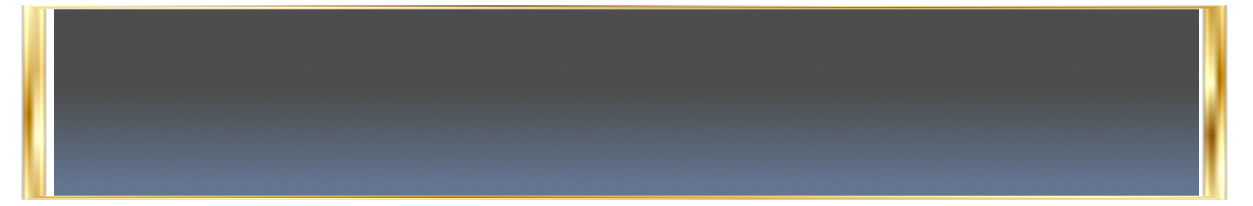
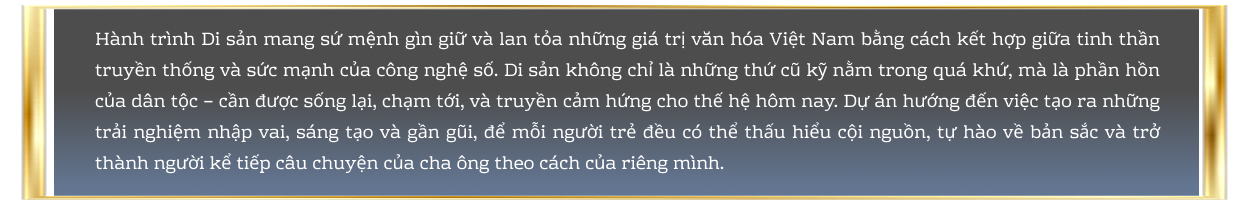
homepage update

diff --git a/src/pages/HomePage.js b/src/pages/HomePage.js
@@ -352,8 +352,18 @@ useEffect(() => {
    
 
 </section>
-<img className='info'
-src="/images/goldframe.png" alt="goldframe" />
+
+
+<div className="info-box">
+  <img className="info" src="/images/goldframe.png" alt="goldframe" />
+  <div className="info-text">
+   
+    <p>
+    Hành trình Di sản mang sứ mệnh gìn giữ và lan tỏa những giá trị văn hóa Việt Nam bằng cách kết hợp giữa tinh thần truyền thống và sức mạnh của công nghệ số. Di sản không chỉ là những thứ cũ kỹ nằm trong quá khứ, mà là phần hồn của dân tộc – cần được sống lại, chạm tới, và truyền cảm hứng cho thế hệ hôm nay. Dự án hướng đến việc tạo ra những trải nghiệm nhập vai, sáng tạo và gần gũi, để mỗi người trẻ đều có thể thấu hiểu cội nguồn, tự hào về bản sắc và trở thành người kể tiếp câu chuyện của cha ông theo cách của riêng mình.
+    </p>
+  </div>
+</div>
+
 
 <img className='last'
 src="/images/last-page.png" alt="lastpage" />

diff --git a/src/styles/HomePage.css b/src/styles/HomePage.css
@@ -1069,21 +1069,33 @@ body:has(.overlay) .background button {
 
 }
 
-.info {
+.info-box {
   position: relative;
-  margin-top: 300px; 
-  
-  height: auto;
-
+  margin-top: 400px; 
   width: 1440px;
-
-  text-align: justify;
-  justify-content: center;
-  font-size: large;
-  margin-left: 50px;
+  margin-left: auto;
+  margin-right: auto;
   margin-bottom: 100px;
- 
 }
+
+.info {
+  display: block;
+  width: 100%;
+  height: auto;
+}
+
+.info-text {
+  position: absolute;
+  top: 30%;  /* canh chỉnh vị trí chữ */
+  left: 10%;
+  right: 10%;
+  color: white;
+  font-size: large;
+  font-family: system-ui, -apple-system, BlinkMacSystemFont, 'Segoe UI', Roboto, Oxygen, Ubuntu, Cantarell, 'Open Sans', 'Helvetica Neue', sans-serif;
+  text-align: justify;
+  z-index: 1000;
+}
+
 
 /* Hiệu ứng fade cho mỗi trang khi điều hướng */
 .fade-enter {
